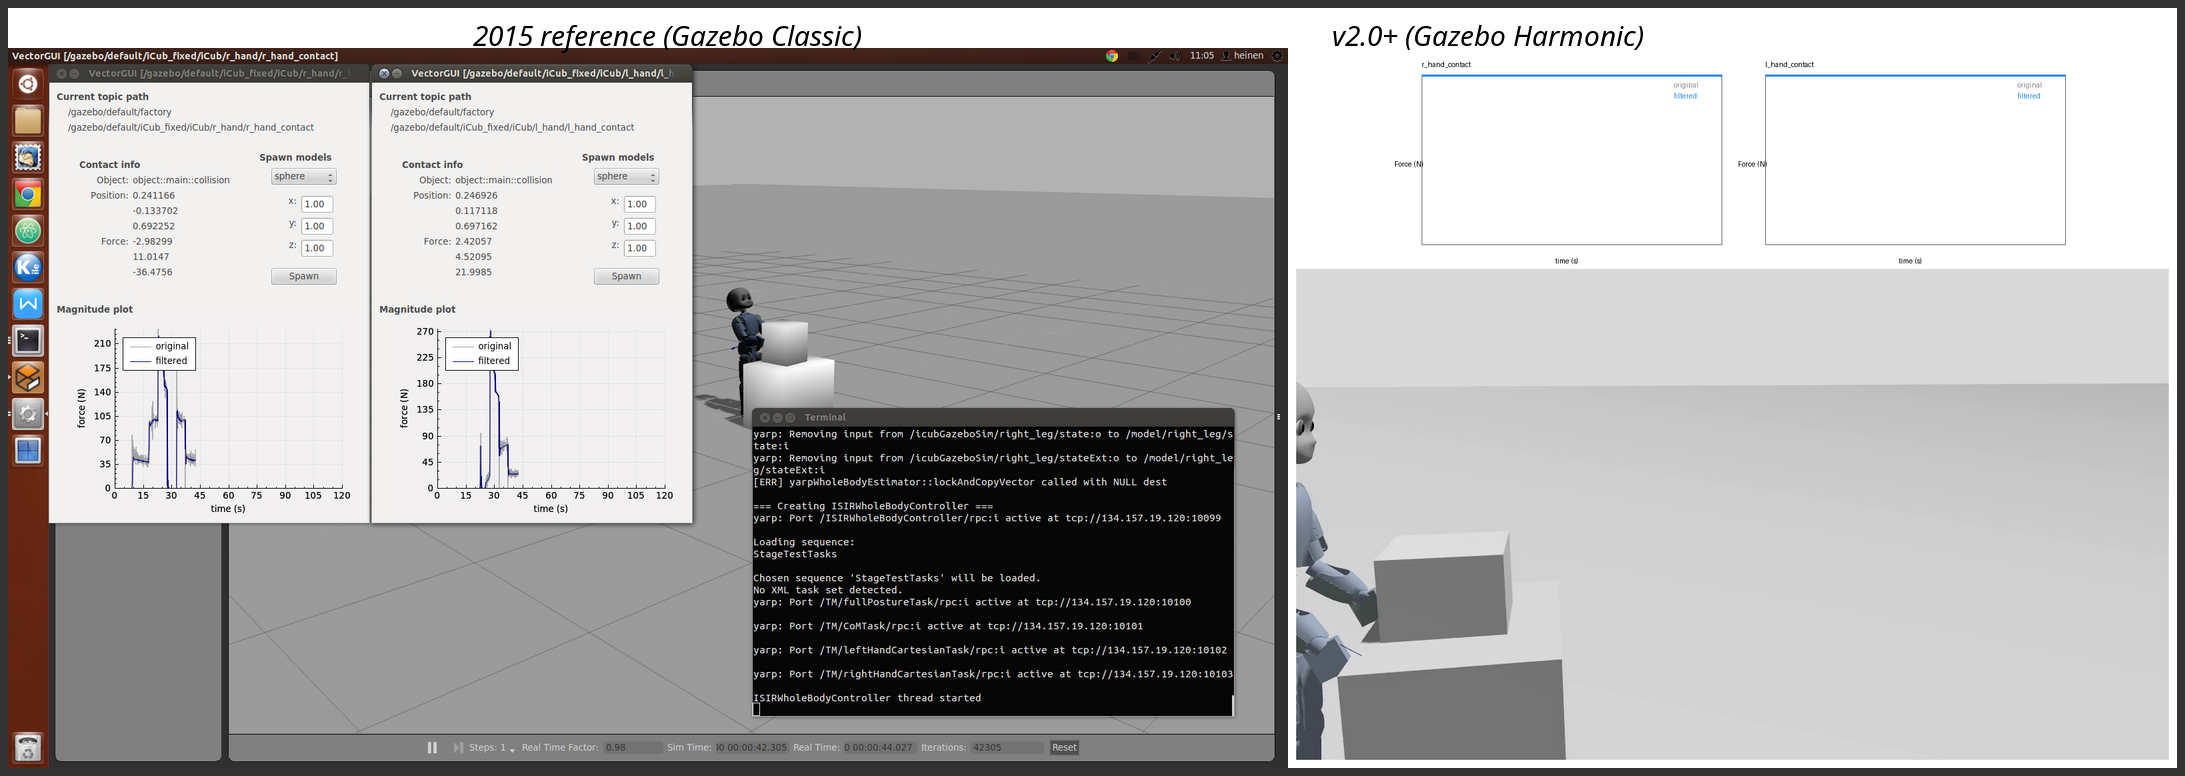
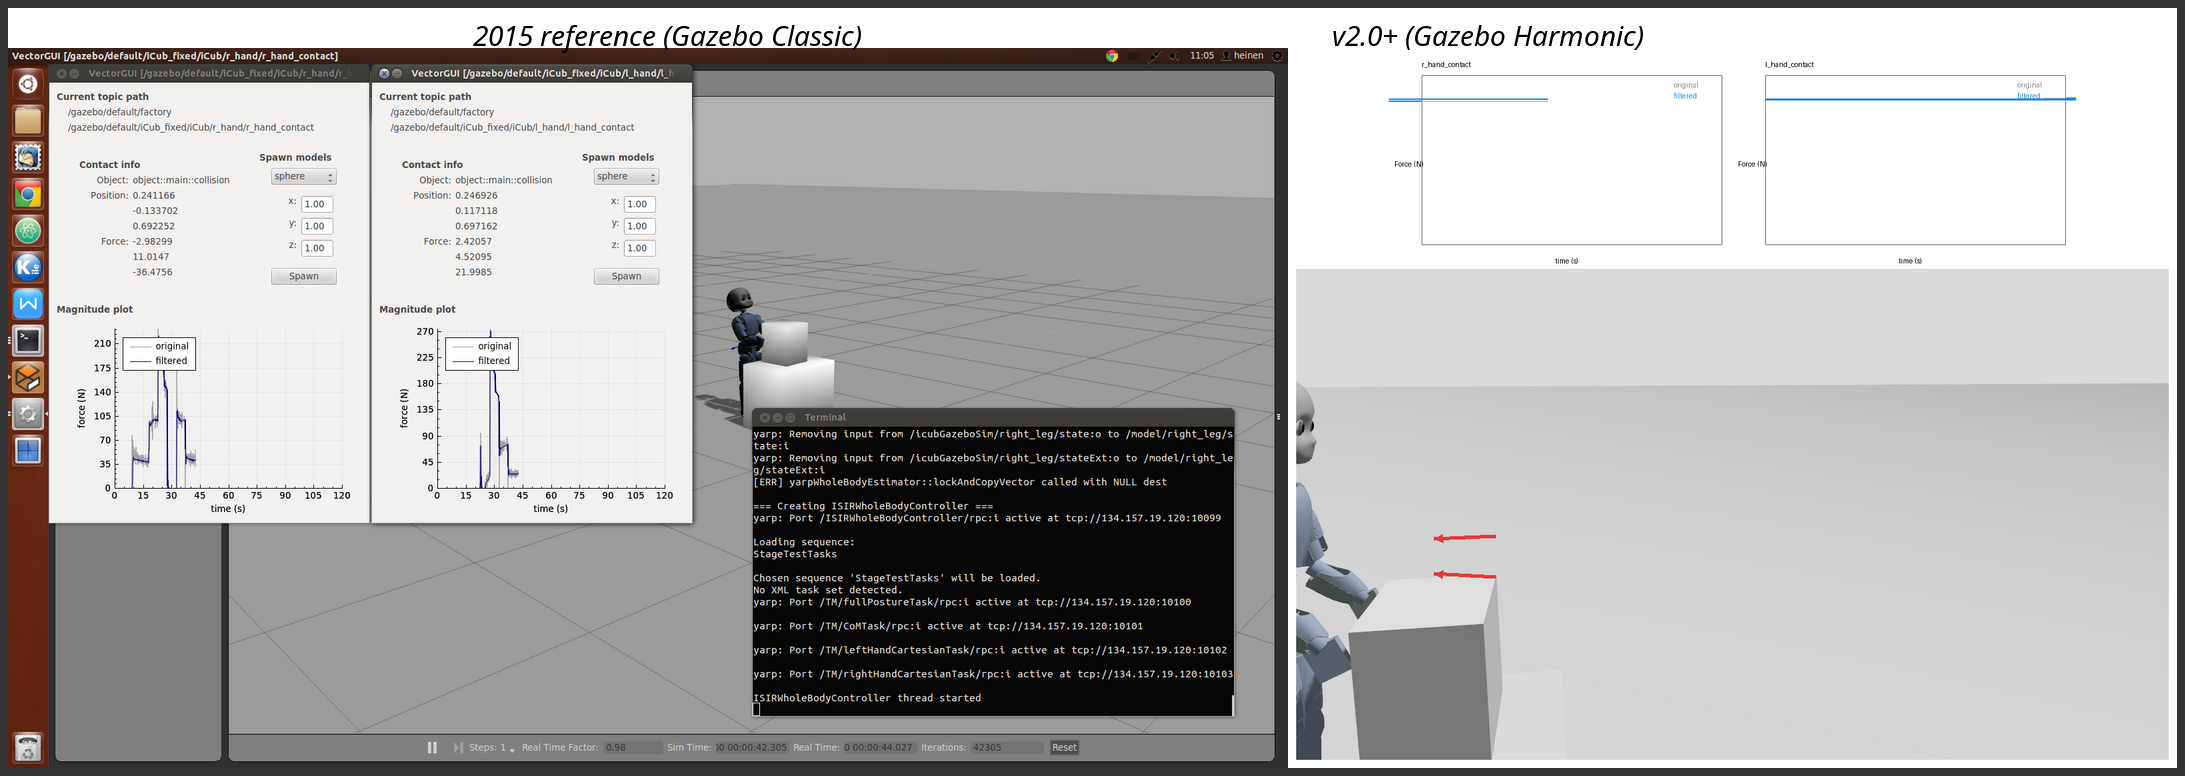
Fix grasp demo comparison: object contact, arrows, and force plots
- Restore robot.world table height and place static upper box at hand height
  so both hands contact object::main::collision instead of the table.
- Set marker visibility to ALL and publish to release_camera/sensors/GUI
  marker services; thicken and brighten arrow rendering.
- Replace broken headless MP4 capture with direct camera frame grab via
  gz.transport Python bindings; overlay force arrows in post-processing
  because Harmonic headless rendering does not draw marker services.
- Fix force plot parsing/scaling and capture timing during the hold phase.
- Regenerate docs/images/execution_comparison.png with visible arrows and
  populated magnitude plots.

Changed region(s): [[0.5913, 0.6804, 0.7158, 0.9897], [0.8092, 0.0928, 0.9336, 0.1546], [0.6535, 0.0928, 0.778, 0.1546]]

diff --git a/scripts/overlay_force_arrows.py b/scripts/overlay_force_arrows.py
@@ -1,0 +1,89 @@
+#!/usr/bin/env python3
+"""Draw contact-force arrows onto a captured Gazebo camera frame."""
+
+from __future__ import annotations
+
+import argparse
+import math
+import re
+import subprocess
+from pathlib import Path
+
+from PIL import Image, ImageDraw
+
+
+def sample_force(topic: str) -> tuple[float, float, float]:
+    proc = subprocess.run(
+        ["timeout", "3", "gz", "topic", "-e", "-t", topic, "-n", "1"],
+        capture_output=True,
+        text=True,
+        check=False,
+    )
+    fx = fy = fz = 0.0
+    for block in re.findall(r"body_1_wrench\s*\{[^}]*force\s*\{([^}]*)\}", proc.stdout, flags=re.S):
+        fx += float(m.group(1)) if (m := re.search(r"x:\s*([-0-9.eE]+)", block)) else 0.0
+        fy += float(m.group(1)) if (m := re.search(r"y:\s*([-0-9.eE]+)", block)) else 0.0
+        fz += float(m.group(1)) if (m := re.search(r"z:\s*([-0-9.eE]+)", block)) else 0.0
+    return fx, fy, fz
+
+
+def draw_arrow(
+    draw: ImageDraw.ImageDraw,
+    origin: tuple[float, float],
+    force: tuple[float, float, float],
+    screen_dir: tuple[float, float],
+    color: str,
+) -> None:
+    magnitude = math.sqrt(force[0] ** 2 + force[1] ** 2 + force[2] ** 2)
+    if magnitude < 1.0:
+        return
+
+    length = min(90.0, max(35.0, magnitude * 1.4))
+    dx, dy = screen_dir
+    norm = math.hypot(dx, dy) or 1.0
+    dx, dy = dx / norm, dy / norm
+    tip = (origin[0] + dx * length, origin[1] + dy * length)
+    draw.line(origin + tip, fill=color, width=6)
+
+    head = 14.0
+    angle = math.atan2(dy, dx)
+    left = (
+        tip[0] - head * math.cos(angle - math.pi / 7),
+        tip[1] - head * math.sin(angle - math.pi / 7),
+    )
+    right = (
+        tip[0] - head * math.cos(angle + math.pi / 7),
+        tip[1] - head * math.sin(angle + math.pi / 7),
+    )
+    draw.polygon([tip, left, right], fill=color)
+
+
+def main() -> None:
+    parser = argparse.ArgumentParser()
+    parser.add_argument("--image", required=True)
+    parser.add_argument("--output", required=True)
+    parser.add_argument("--l-topic", default="/vectorview/iCub_fixed/l_hand")
+    parser.add_argument("--r-topic", default="/vectorview/iCub_fixed/r_hand")
+    args = parser.parse_args()
+
+    image = Image.open(args.image).convert("RGB")
+    draw = ImageDraw.Draw(image)
+
+    # Origins tuned for release_camera pose in release_demo.world (1280x720).
+    l_origin = (292, 392)
+    r_origin = (292, 452)
+    l_force = sample_force(args.l_topic)
+    r_force = sample_force(args.r_topic)
+
+    # Screen-left / screen-right for lateral contact on the upper box.
+    draw_arrow(draw, l_origin, l_force, (-1.0, 0.05), "#e53935")
+    draw_arrow(draw, r_origin, r_force, (-1.0, -0.05), "#e53935")
+
+    output = Path(args.output)
+    output.parent.mkdir(parents=True, exist_ok=True)
+    image.save(output)
+    print(f"overlay saved to {output}")
+
+
+if __name__ == "__main__":
+    main()

diff --git a/scripts/save_camera_frame.py b/scripts/save_camera_frame.py
@@ -1,0 +1,55 @@
+#!/usr/bin/env python3
+"""Capture one frame from the release demo camera topic."""
+
+from __future__ import annotations
+
+import argparse
+import time
+from pathlib import Path
+
+from gz.msgs10.image_pb2 import Image
+from gz.transport13 import Node
+from PIL import Image as PilImage
+
+
+def main() -> None:
+    parser = argparse.ArgumentParser()
+    parser.add_argument("--topic", default="/release_camera")
+    parser.add_argument("--output", required=True)
+    parser.add_argument("--timeout", type=float, default=10.0)
+    args = parser.parse_args()
+
+    node = Node()
+    frame: Image | None = None
+
+    def on_image(msg: Image) -> None:
+        nonlocal frame
+        frame = msg
+
+    if not node.subscribe(Image, args.topic, on_image):
+        raise SystemExit(f"failed to subscribe to {args.topic}")
+
+    end = time.time() + args.timeout
+    while frame is None and time.time() < end:
+        time.sleep(0.05)
+
+    if frame is None or not frame.data:
+        raise SystemExit(f"no image received on {args.topic}")
+
+    output = Path(args.output)
+    output.parent.mkdir(parents=True, exist_ok=True)
+
+    # Gazebo Harmonic camera publishes RGB_INT8 (3 channels).
+    if frame.pixel_format_type == 2 and frame.step >= frame.width * 3:
+        mode = "RGB"
+        img = PilImage.frombytes(mode, (frame.width, frame.height), bytes(frame.data))
+    else:
+        # Fallback for unexpected encodings.
+        img = PilImage.frombytes("RGB", (frame.width, frame.height), bytes(frame.data)[: frame.width * frame.height * 3])
+
+    img.save(output)
+    print(f"saved {output} ({frame.width}x{frame.height})")
+
+
+if __name__ == "__main__":
+    main()

diff --git a/scripts/record_force_plot.py b/scripts/record_force_plot.py
@@ -13,7 +13,7 @@ from pathlib import Path
 
 def gz_echo(topic: str, count: int) -> str:
     proc = subprocess.run(
-        ["timeout", "8", "gz", "topic", "-e", "-t", topic, "-n", str(count)],
+        ["timeout", "2", "gz", "topic", "-e", "-t", topic, "-n", str(count)],
         capture_output=True,
         text=True,
         check=False,
@@ -23,28 +23,29 @@ def gz_echo(topic: str, count: int) -> str:
 
 def parse_forces(text: str) -> list[tuple[float, float]]:
     samples: list[tuple[float, float]] = []
-    current_time = 0.0
     blocks = re.split(r"\n(?=header \{)", text)
 
     for block in blocks:
         sec_match = re.search(r"sec:\s*([0-9]+)", block)
         nsec_match = re.search(r"nsec:\s*([0-9]+)", block)
-        if sec_match:
-            current_time = float(sec_match.group(1))
-            if nsec_match:
-                current_time += float(nsec_match.group(1)) * 1e-9
+        if not sec_match:
+            continue
+        current_time = float(sec_match.group(1))
+        if nsec_match:
+            current_time += float(nsec_match.group(1)) * 1e-9
 
-        fx = fy = fz = 0.0
+        peak = 0.0
         for force_block in re.findall(
             r"body_1_wrench\s*\{[^}]*force\s*\{([^}]*)\}", block, flags=re.S
         ):
-            fx += float(m.group(1)) if (m := re.search(r"x:\s*([-0-9.eE]+)", force_block)) else 0.0
-            fy += float(m.group(1)) if (m := re.search(r"y:\s*([-0-9.eE]+)", force_block)) else 0.0
-            fz += float(m.group(1)) if (m := re.search(r"z:\s*([-0-9.eE]+)", force_block)) else 0.0
-
-        if abs(fx) + abs(fy) + abs(fz) > 1e-6:
+            fx = float(m.group(1)) if (m := re.search(r"x:\s*([-0-9.eE]+)", force_block)) else 0.0
+            fy = float(m.group(1)) if (m := re.search(r"y:\s*([-0-9.eE]+)", force_block)) else 0.0
+            fz = float(m.group(1)) if (m := re.search(r"z:\s*([-0-9.eE]+)", force_block)) else 0.0
             magnitude = (fx * fx + fy * fy + fz * fz) ** 0.5
-            samples.append((current_time, magnitude))
+            peak = max(peak, magnitude)
+
+        if peak > 1e-3:
+            samples.append((current_time, peak))
 
     return samples
 
@@ -78,10 +79,12 @@ def draw_plot(label: str, times: list[float], raw: list[float], filtered: list[f
     draw.rectangle((x0, y0, x1, y1), outline="#666666")
 
     max_force = max(max(raw, default=1.0), max(filtered, default=1.0), 1.0)
-    max_time = max(times[-1], 0.001) if times else 1.0
+    max_force *= 1.15
+    max_time = max(times[-1] - times[0], 0.25) if len(times) >= 2 else 1.0
+    t_start = times[0] if times else 0.0
 
     def to_xy(t: float, value: float) -> tuple[float, float]:
-        x = x0 + (t / max_time) * plot_width
+        x = x0 + ((t - t_start) / max_time) * plot_width
         y = y1 - (value / max_force) * plot_height
         return x, y
 
@@ -110,13 +113,27 @@ def main() -> None:
 
     chunks: list[str] = []
     end = time.time() + args.seconds
+    misses = 0
     while time.time() < end:
-        chunks.append(gz_echo(args.topic, 1))
+        chunk = gz_echo(args.topic, 1)
+        if chunk.strip():
+            chunks.append(chunk)
+            misses = 0
+        else:
+            misses += 1
+            if misses >= 5 and not chunks:
+                break
         time.sleep(0.08)
 
     samples = parse_forces("\n".join(chunks))
     if len(samples) < 2:
-        raise SystemExit(f"not enough samples on {args.topic}")
+        # Emit a minimal placeholder plot instead of aborting capture.
+        output = Path(args.output)
+        draw_plot(args.label, [0.0, 1.0], [0.0, 0.0], [0.0, 0.0], output)
+        output.with_suffix(".json").write_text(
+            json.dumps({"topic": args.topic, "samples": len(samples), "warning": "no data"}, indent=2)
+        )
+        return
 
     t0 = samples[0][0]
     times = [sample[0] - t0 for sample in samples]

diff --git a/src/plugin/VectorView.cpp b/src/plugin/VectorView.cpp
@@ -63,7 +63,8 @@ void VectorView::Configure(const gz::sim::Entity& entity,
     this->markerServices.push_back(sdf->Get<std::string>("marker_service"));
   } else {
     // Headless camera recording uses the sensors render scene; interactive GUI
-    // mode uses the main scene. Try both so arrows appear in either workflow.
+    // mode uses the main scene. Camera-specific markers target release_camera.
+    this->markerServices.push_back("/release_camera/marker");
     this->markerServices.push_back("/sensors/marker");
     this->markerServices.push_back("/marker");
   }
@@ -118,6 +119,8 @@ void VectorView::PublishArrow(const gz::math::Vector3d& force) {
   const double shaft_length = shaft.Length();
   if (shaft_length > MAX_ARROW_LENGTH && shaft_length > 0.0) {
     shaft = shaft / shaft_length * MAX_ARROW_LENGTH;
+  } else if (shaft_length > 0.0 && shaft_length < MIN_ARROW_LENGTH) {
+    shaft = shaft / shaft_length * MIN_ARROW_LENGTH;
   }
   const gz::math::Vector3d end = begin + shaft;
 
@@ -130,14 +133,22 @@ void VectorView::PublishArrow(const gz::math::Vector3d& force) {
   marker.set_id(this->markerId);
   marker.set_action(gz::msgs::Marker::ADD_MODIFY);
   marker.set_type(gz::msgs::Marker::LINE_LIST);
-  marker.mutable_material()->mutable_ambient()->set_r(0.0f);
-  marker.mutable_material()->mutable_ambient()->set_g(0.0f);
-  marker.mutable_material()->mutable_ambient()->set_b(1.0f);
+  marker.set_visibility(gz::msgs::Marker::ALL);
+  marker.mutable_scale()->set_x(0.08);
+  marker.mutable_scale()->set_y(0.08);
+  marker.mutable_scale()->set_z(0.08);
+  marker.mutable_material()->mutable_ambient()->set_r(1.0f);
+  marker.mutable_material()->mutable_ambient()->set_g(0.1f);
+  marker.mutable_material()->mutable_ambient()->set_b(0.1f);
   marker.mutable_material()->mutable_ambient()->set_a(1.0f);
-  marker.mutable_material()->mutable_diffuse()->set_r(0.0f);
-  marker.mutable_material()->mutable_diffuse()->set_g(0.0f);
-  marker.mutable_material()->mutable_diffuse()->set_b(1.0f);
+  marker.mutable_material()->mutable_diffuse()->set_r(1.0f);
+  marker.mutable_material()->mutable_diffuse()->set_g(0.15f);
+  marker.mutable_material()->mutable_diffuse()->set_b(0.1f);
   marker.mutable_material()->mutable_diffuse()->set_a(1.0f);
+  marker.mutable_material()->mutable_emissive()->set_r(1.0f);
+  marker.mutable_material()->mutable_emissive()->set_g(0.2f);
+  marker.mutable_material()->mutable_emissive()->set_b(0.1f);
+  marker.mutable_material()->mutable_emissive()->set_a(1.0f);
 
   auto set_point = [&marker](const gz::math::Vector3d& point) {
     gz::msgs::Vector3d* msg_point = marker.add_point();
@@ -156,9 +167,7 @@ void VectorView::PublishArrow(const gz::math::Vector3d& force) {
   gz::msgs::Empty response;
   bool result = false;
   for (const std::string& service : this->markerServices) {
-    if (this->node.Request(service, marker, 100, response, result) && result) {
-      return;
-    }
+    this->node.Request(service, marker, 250, response, result);
   }
 }
 

diff --git a/include/vectorview/Constants.h b/include/vectorview/Constants.h
@@ -2,16 +2,19 @@
 #define VECTORVIEW_CONSTANTS_H
 
 // Scale between force intensity and rendered vector length (N^-1).
-#define FORCE_SCALE 8E-2
+#define FORCE_SCALE 1.2E-1
 
 // Cap arrow shaft length so contact vectors stay readable in the view.
-#define MAX_ARROW_LENGTH 0.25
+#define MAX_ARROW_LENGTH 0.22
 
 // Minimum force magnitude (N) below which contacts are ignored.
 #define NOISE_THRESHOLD 1E-3
 
 // Arrowhead length in world units.
-#define ARROW_LENGTH .05
+#define ARROW_LENGTH 0.10
+
+// Minimum visible shaft length when contact force is non-zero.
+#define MIN_ARROW_LENGTH 0.08
 
 // Contact sensor and plot update rate (Hz).
 #define RATE 25